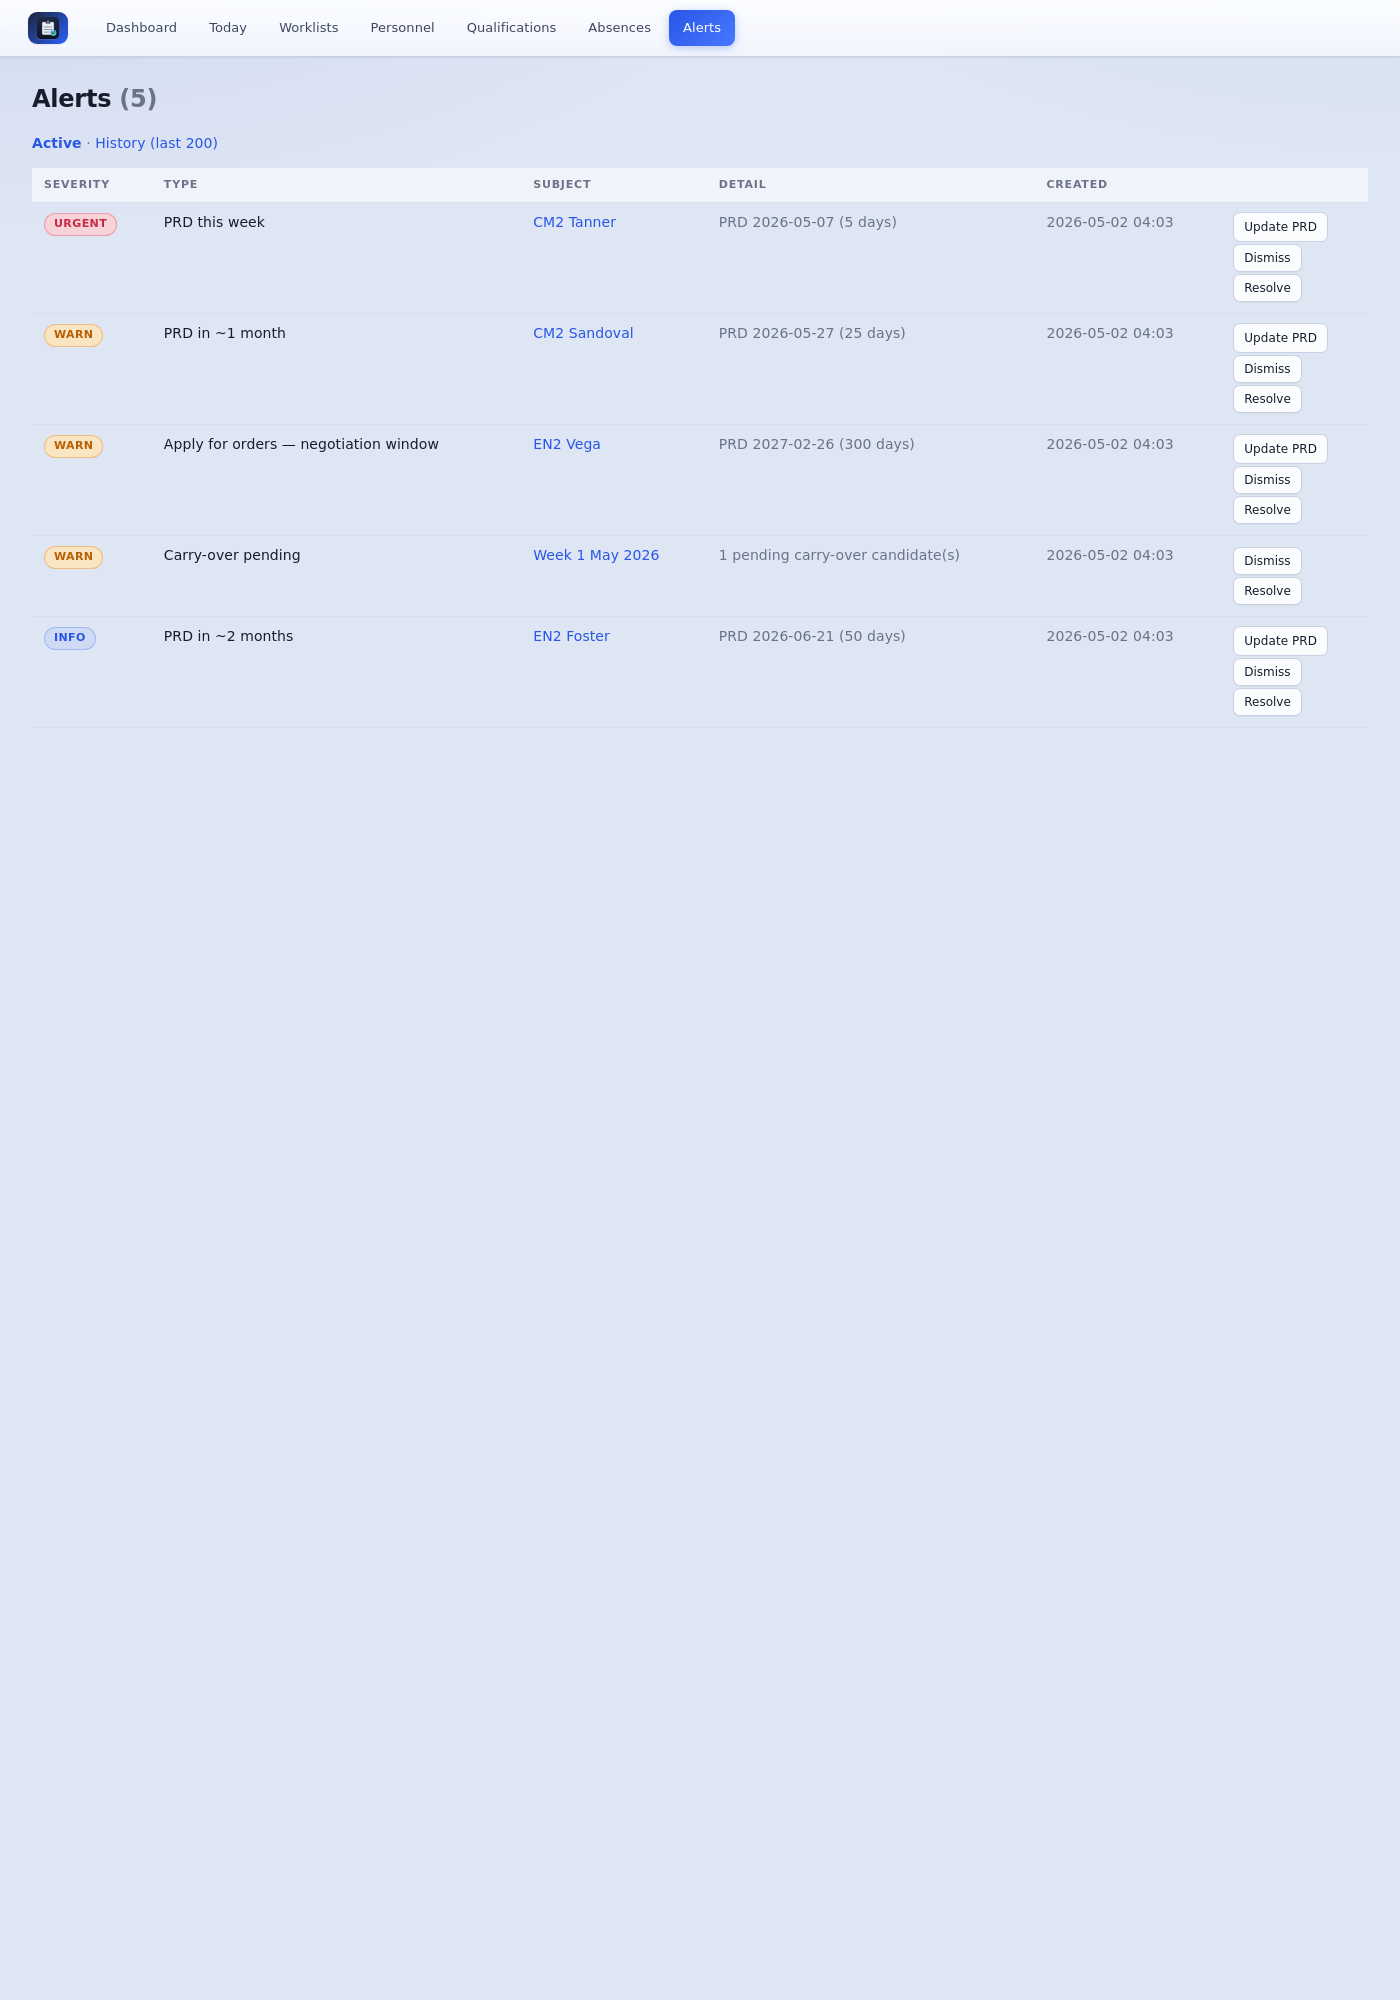
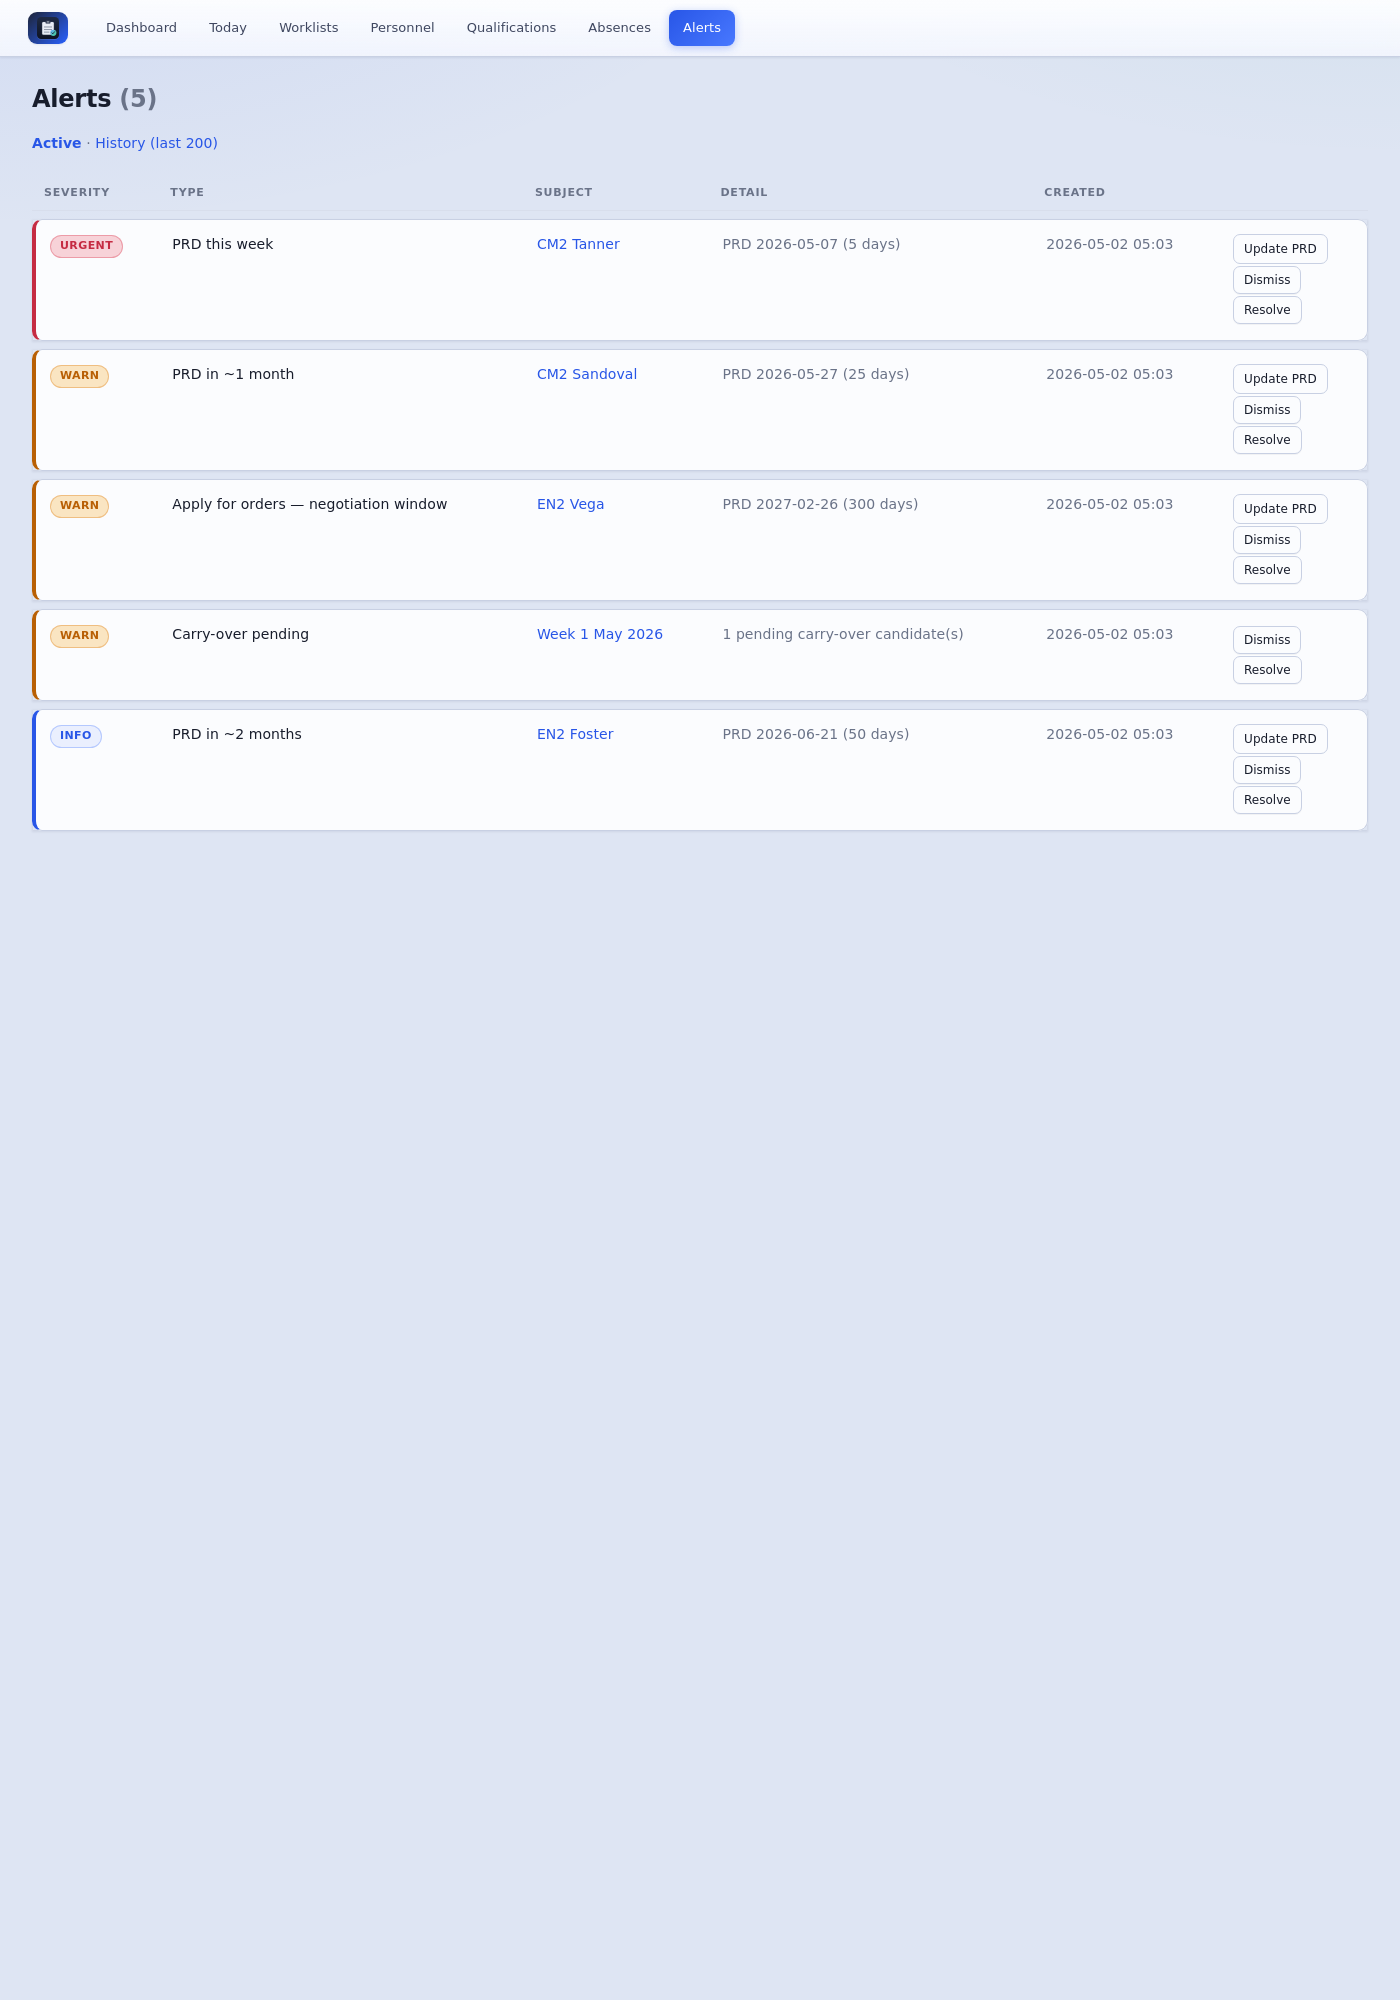
Position field, depart block, alert row separation, scrollbars, PRD popover
Personnel:
- New Position column (LPO, Watchbill Coordinator, etc.) surfaced on
  the active roster in place of the Notes column. Forms capture it;
  detail card shows Position + First name when set.
- First name on the roster renders as "Last, First" when set so
  duplicate-last-name pairs are easy to tell apart.
- "Move to Departed" block on the edit page with a canned reason
  dropdown (Transferred PCS / Separated / Discharged / Other) replaces
  the easy-to-miss "Remove from roster" button.

Alerts:
- Each alert is now a visually bounded card: severity-coloured 4px
  left border, soft shadow, 8px gap between rows.
- Update PRD opens a date picker popover with Save / Cancel.
- 12-month order-negotiation alert fires when a PRD lands between 60
  and 365 days out: "Apply for orders — negotiation window".

Layout:
- .matrix-wrap pins to a viewport max-height so the horizontal
  scrollbar always lives within the visible area for both the qual
  matrix and the absence calendar; custom-styled 12px scrollbars are
  obvious. Drop redundant Paygrade column on active roster.

Changed region(s): [[0.0, 0.093, 0.9829, 0.434]]

diff --git a/app/static/app.css b/app/static/app.css
@@ -166,7 +166,19 @@ h3 { font-size: 14px; font-weight: 600; margin: 16px 0 8px; color: var(--text); 
 .tabs a.active { color: var(--accent); border-bottom-color: var(--accent); }
 
 /* Matrix --------------------------------------------------------------- */
-.matrix-wrap { overflow: auto; border: 1px solid var(--border); border-radius: var(--radius); box-shadow: var(--shadow-sm); background: var(--panel); }
+.matrix-wrap {
+  overflow-x: scroll;
+  overflow-y: auto;
+  max-height: calc(100vh - 240px);
+  border: 1px solid var(--border);
+  border-radius: var(--radius);
+  box-shadow: var(--shadow-sm);
+  background: var(--panel);
+}
+.matrix-wrap::-webkit-scrollbar { height: 12px; width: 12px; }
+.matrix-wrap::-webkit-scrollbar-track { background: var(--panel-2); border-radius: 6px; }
+.matrix-wrap::-webkit-scrollbar-thumb { background: var(--border); border-radius: 6px; border: 2px solid var(--panel-2); }
+.matrix-wrap::-webkit-scrollbar-thumb:hover { background: var(--accent); }
 .matrix { border-collapse: separate; border-spacing: 0; font-size: 12px; min-width: 100%; }
 .matrix th, .matrix td {
   padding: 6px 10px; border-bottom: 1px solid var(--border-soft); border-right: 1px solid var(--border-soft);
@@ -472,3 +484,41 @@ details.prd-popover[open] > summary { background: var(--accent); color: #fff; bo
 .prd-popover-body input[type="date"]:focus { outline: 0; border-color: var(--accent); box-shadow: 0 0 0 3px rgba(40,86,231,.18); }
 .prd-popover-actions { display: flex; gap: 6px; }
 .prd-popover-actions button { padding: 6px 12px; font-size: 12px; }
+
+/* Alerts table — more breathing room and severity-coded row borders so
+   each alert reads as its own card. */
+.alerts-table { border-collapse: separate; border-spacing: 0 8px; }
+.alerts-table thead th { background: transparent; }
+.alerts-table tbody tr {
+  background: var(--panel);
+  box-shadow: var(--shadow-sm);
+}
+.alerts-table tbody tr td {
+  padding: 14px 14px;
+  border-top: 1px solid var(--border);
+  border-bottom: 1px solid var(--border);
+  background: inherit;
+  vertical-align: top;
+}
+.alerts-table tbody tr td:first-child {
+  border-left: 4px solid var(--border);
+  border-top-left-radius: var(--radius);
+  border-bottom-left-radius: var(--radius);
+  padding-left: 14px;
+}
+.alerts-table tbody tr td:last-child {
+  border-right: 1px solid var(--border);
+  border-top-right-radius: var(--radius);
+  border-bottom-right-radius: var(--radius);
+}
+.alerts-table tbody tr.alert-urgent td:first-child { border-left-color: var(--bad); }
+.alerts-table tbody tr.alert-warn td:first-child   { border-left-color: var(--warn); }
+.alerts-table tbody tr.alert-info td:first-child   { border-left-color: var(--accent); }
+.alerts-table tbody tr:hover td { background: var(--panel-2); }
+
+/* Personnel depart-block */
+.depart-block { background: var(--bad-soft); border-color: rgba(197,43,66,.30); }
+.depart-block h2 { color: var(--bad); }
+.depart-block::before { background: var(--bad); }
+.depart-btn { background: var(--bad); }
+.depart-btn:hover { background: #b3253a; }

diff --git a/app/templates/personnel/edit.html b/app/templates/personnel/edit.html
@@ -11,7 +11,8 @@
   <fieldset>
     <legend>Identity</legend>
     <label>Last name <input name="last_name" value="{{ person.last_name }}" required /></label>
-    <label>First name <input name="first_name" value="{{ person.first_name or '' }}" /></label>
+    <label>First name <input name="first_name" value="{{ person.first_name or '' }}" placeholder="useful when multiple sailors share a last name" /></label>
+    <label>Position <input name="position" value="{{ person.position or '' }}" placeholder="e.g. LPO, Watchbill Coordinator" /></label>
     <label>Notes <textarea name="notes" rows="2">{{ person.notes or '' }}</textarea></label>
   </fieldset>
 
@@ -57,10 +58,21 @@
   </div>
 </form>
 
-<form method="post" action="/personnel/{{ person.id }}/archive" class="form-inline danger">
-  <label>Reason <input name="reason" placeholder="e.g. PCS, separated, transfer" /></label>
-  <button type="submit" onclick="return confirm('Remove {{ person.full_display }} from the roster? Their history is preserved on disk; this just hides them from the active roster.');">Remove from roster</button>
-</form>
+<section class="block depart-block">
+  <h2>Move to departed</h2>
+  <p class="muted small">Use this when the sailor PCSes, separates, transfers, or otherwise leaves the command. They drop off the active roster but their full history is preserved on the Departed tab.</p>
+  <form method="post" action="/personnel/{{ person.id }}/archive" class="form-inline">
+    <label>Reason
+      <select name="reason">
+        <option value="Transferred (PCS)">Transferred (PCS)</option>
+        <option value="Separated">Separated</option>
+        <option value="Discharged">Discharged</option>
+        <option value="Other">Other</option>
+      </select>
+    </label>
+    <button type="submit" class="depart-btn" onclick="return confirm('Move {{ person.full_display }} to the Departed tab?');">Move to Departed</button>
+  </form>
+</section>
 
 {% include "personnel/_rate_picker_js.html" %}
 {% endblock %}

diff --git a/app/templates/personnel/list.html b/app/templates/personnel/list.html
@@ -11,20 +11,18 @@
       <thead>
         <tr>
           <th>Rate</th>
-          <th>Paygrade</th>
           <th>Name</th>
           <th>DS</th>
-          <th>Notes</th>
+          <th>Position</th>
         </tr>
       </thead>
       <tbody>
         {% for r in rows %}
         <tr>
           <td>{{ r.rate or "—" }}</td>
-          <td class="muted">{{ r.paygrade or "—" }}</td>
           <td><a href="/personnel/{{ r.id }}">{{ r.last_name }}{% if r.first_name %}, {{ r.first_name }}{% endif %}</a></td>
           <td>{{ r.duty_section or "—" }}</td>
-          <td class="muted">{{ r.notes or "" }}</td>
+          <td class="muted">{{ r.position or "" }}</td>
         </tr>
         {% endfor %}
       </tbody>

diff --git a/app/templates/personnel/show.html b/app/templates/personnel/show.html
@@ -109,6 +109,8 @@
         {% set cur_rate = rates|selectattr("valid_to","none")|first %}
         <dt>Rate</dt>
         <dd>{{ cur_rate.rate if cur_rate else "—" }}{% if cur_rate and cur_rate.paygrade %} <span class="muted">({{ cur_rate.paygrade }})</span>{% endif %}</dd>
+        {% if person.first_name %}<dt>First name</dt><dd>{{ person.first_name }}</dd>{% endif %}
+        {% if person.position %}<dt>Position</dt><dd>{{ person.position }}</dd>{% endif %}
         {% set cur_ds = duty_sections|selectattr("valid_to","none")|first %}
         <dt>Duty section</dt><dd>{{ cur_ds.duty_section if cur_ds else "—" }}</dd>
         {% set cur_prd = prds|selectattr("valid_to","none")|first %}

diff --git a/app/templates/personnel/new.html b/app/templates/personnel/new.html
@@ -8,7 +8,8 @@
   <fieldset>
     <legend>Identity</legend>
     <label>Last name <input name="last_name" required /></label>
-    <label>First name <input name="first_name" /></label>
+    <label>First name <input name="first_name" placeholder="useful when multiple sailors share a last name" /></label>
+    <label>Position <input name="position" placeholder="e.g. LPO, Watchbill Coordinator" /></label>
   </fieldset>
   <fieldset>
     <legend>Rate / rank</legend>

diff --git a/app/templates/home.html b/app/templates/home.html
@@ -34,7 +34,7 @@
         {% endif %}
       </div>
     </div>
-    <p style="margin: 0;"><a class="btn-link" href="/today">Open today's view</a> <a class="btn-link" href="/day/{{ next_monday }}">next Monday</a></p>
+    <p style="margin: 0;"><a class="btn-link" href="/day/{{ next_monday }}">Next Monday</a></p>
 
     {% if out_today %}
     <h3>Out today ({{ out_today|length }})</h3>

diff --git a/app/templates/alerts/list.html b/app/templates/alerts/list.html
@@ -10,7 +10,7 @@
 {% if not items %}
 <p>No alerts. ✓</p>
 {% else %}
-<table class="grid">
+<table class="grid alerts-table">
   <thead>
     <tr>
       <th>Severity</th>

diff --git a/app/routes/personnel.py b/app/routes/personnel.py
@@ -71,6 +71,7 @@ def list_personnel(request: Request):
                 "paygrade": paygrade,
                 "last_name": p.last_name,
                 "first_name": p.first_name,
+                "position": p.position,
                 "duty_section": cur["duty_section"].duty_section if cur["duty_section"] else None,
                 "group": _group_for(rate, paygrade),
                 "notes": p.notes,
@@ -247,6 +248,7 @@ def create_person(
     has_drivers_license: Optional[str] = Form(None),
     drivers_license_expires: Optional[str] = Form(None),
     roster_status: str = Form("active"),
+    position: Optional[str] = Form(None),
     notes: Optional[str] = Form(None),
 ):
     today = date.today()
@@ -259,6 +261,7 @@ def create_person(
             last_name=last_name.strip(),
             first_name=(first_name or None) and first_name.strip(),
             full_display=full_display.strip(),
+            position=(position or None) and position.strip(),
             notes=(notes or None),
             display_order=last_pos + 1,
         )
@@ -358,6 +361,7 @@ def update_person(
     person_id: int,
     last_name: str = Form(...),
     first_name: Optional[str] = Form(None),
+    position: Optional[str] = Form(None),
     notes: Optional[str] = Form(None),
     rate: Optional[str] = Form(None),
     duty_section: Optional[int] = Form(None),
@@ -375,6 +379,7 @@ def update_person(
             raise HTTPException(404, "person not found")
         p.last_name = last_name.strip()
         p.first_name = (first_name or None) and first_name.strip()
+        p.position = (position or None) and position.strip()
         p.notes = (notes or None)
         # Recompute full_display from current rate (may have just changed below).
         new_rate = rate.strip() if rate else None

diff --git a/app/models.py b/app/models.py
@@ -92,6 +92,7 @@ class Person(Base, TimestampMixin, SoftDeleteMixin, ProvenanceMixin):
     last_name: Mapped[str] = mapped_column(String(128), nullable=False)
     first_name: Mapped[Optional[str]] = mapped_column(String(128), nullable=True)
     full_display: Mapped[str] = mapped_column(String(256), nullable=False)
+    position: Mapped[Optional[str]] = mapped_column(String(128), nullable=True)
     notes: Mapped[Optional[str]] = mapped_column(Text, nullable=True)
     display_order: Mapped[int] = mapped_column(Integer, default=0, nullable=False)
 

diff --git a/app/db.py b/app/db.py
@@ -61,6 +61,7 @@ _COLUMN_ADDITIONS = [
     ("persons", "itinerary_received", "BOOLEAN NOT NULL DEFAULT 0"),
     ("persons", "aob_scheduled", "BOOLEAN NOT NULL DEFAULT 0"),
     ("persons", "barracks_assigned", "BOOLEAN NOT NULL DEFAULT 0"),
+    ("persons", "position", "VARCHAR(128)"),
 ]
 
 
